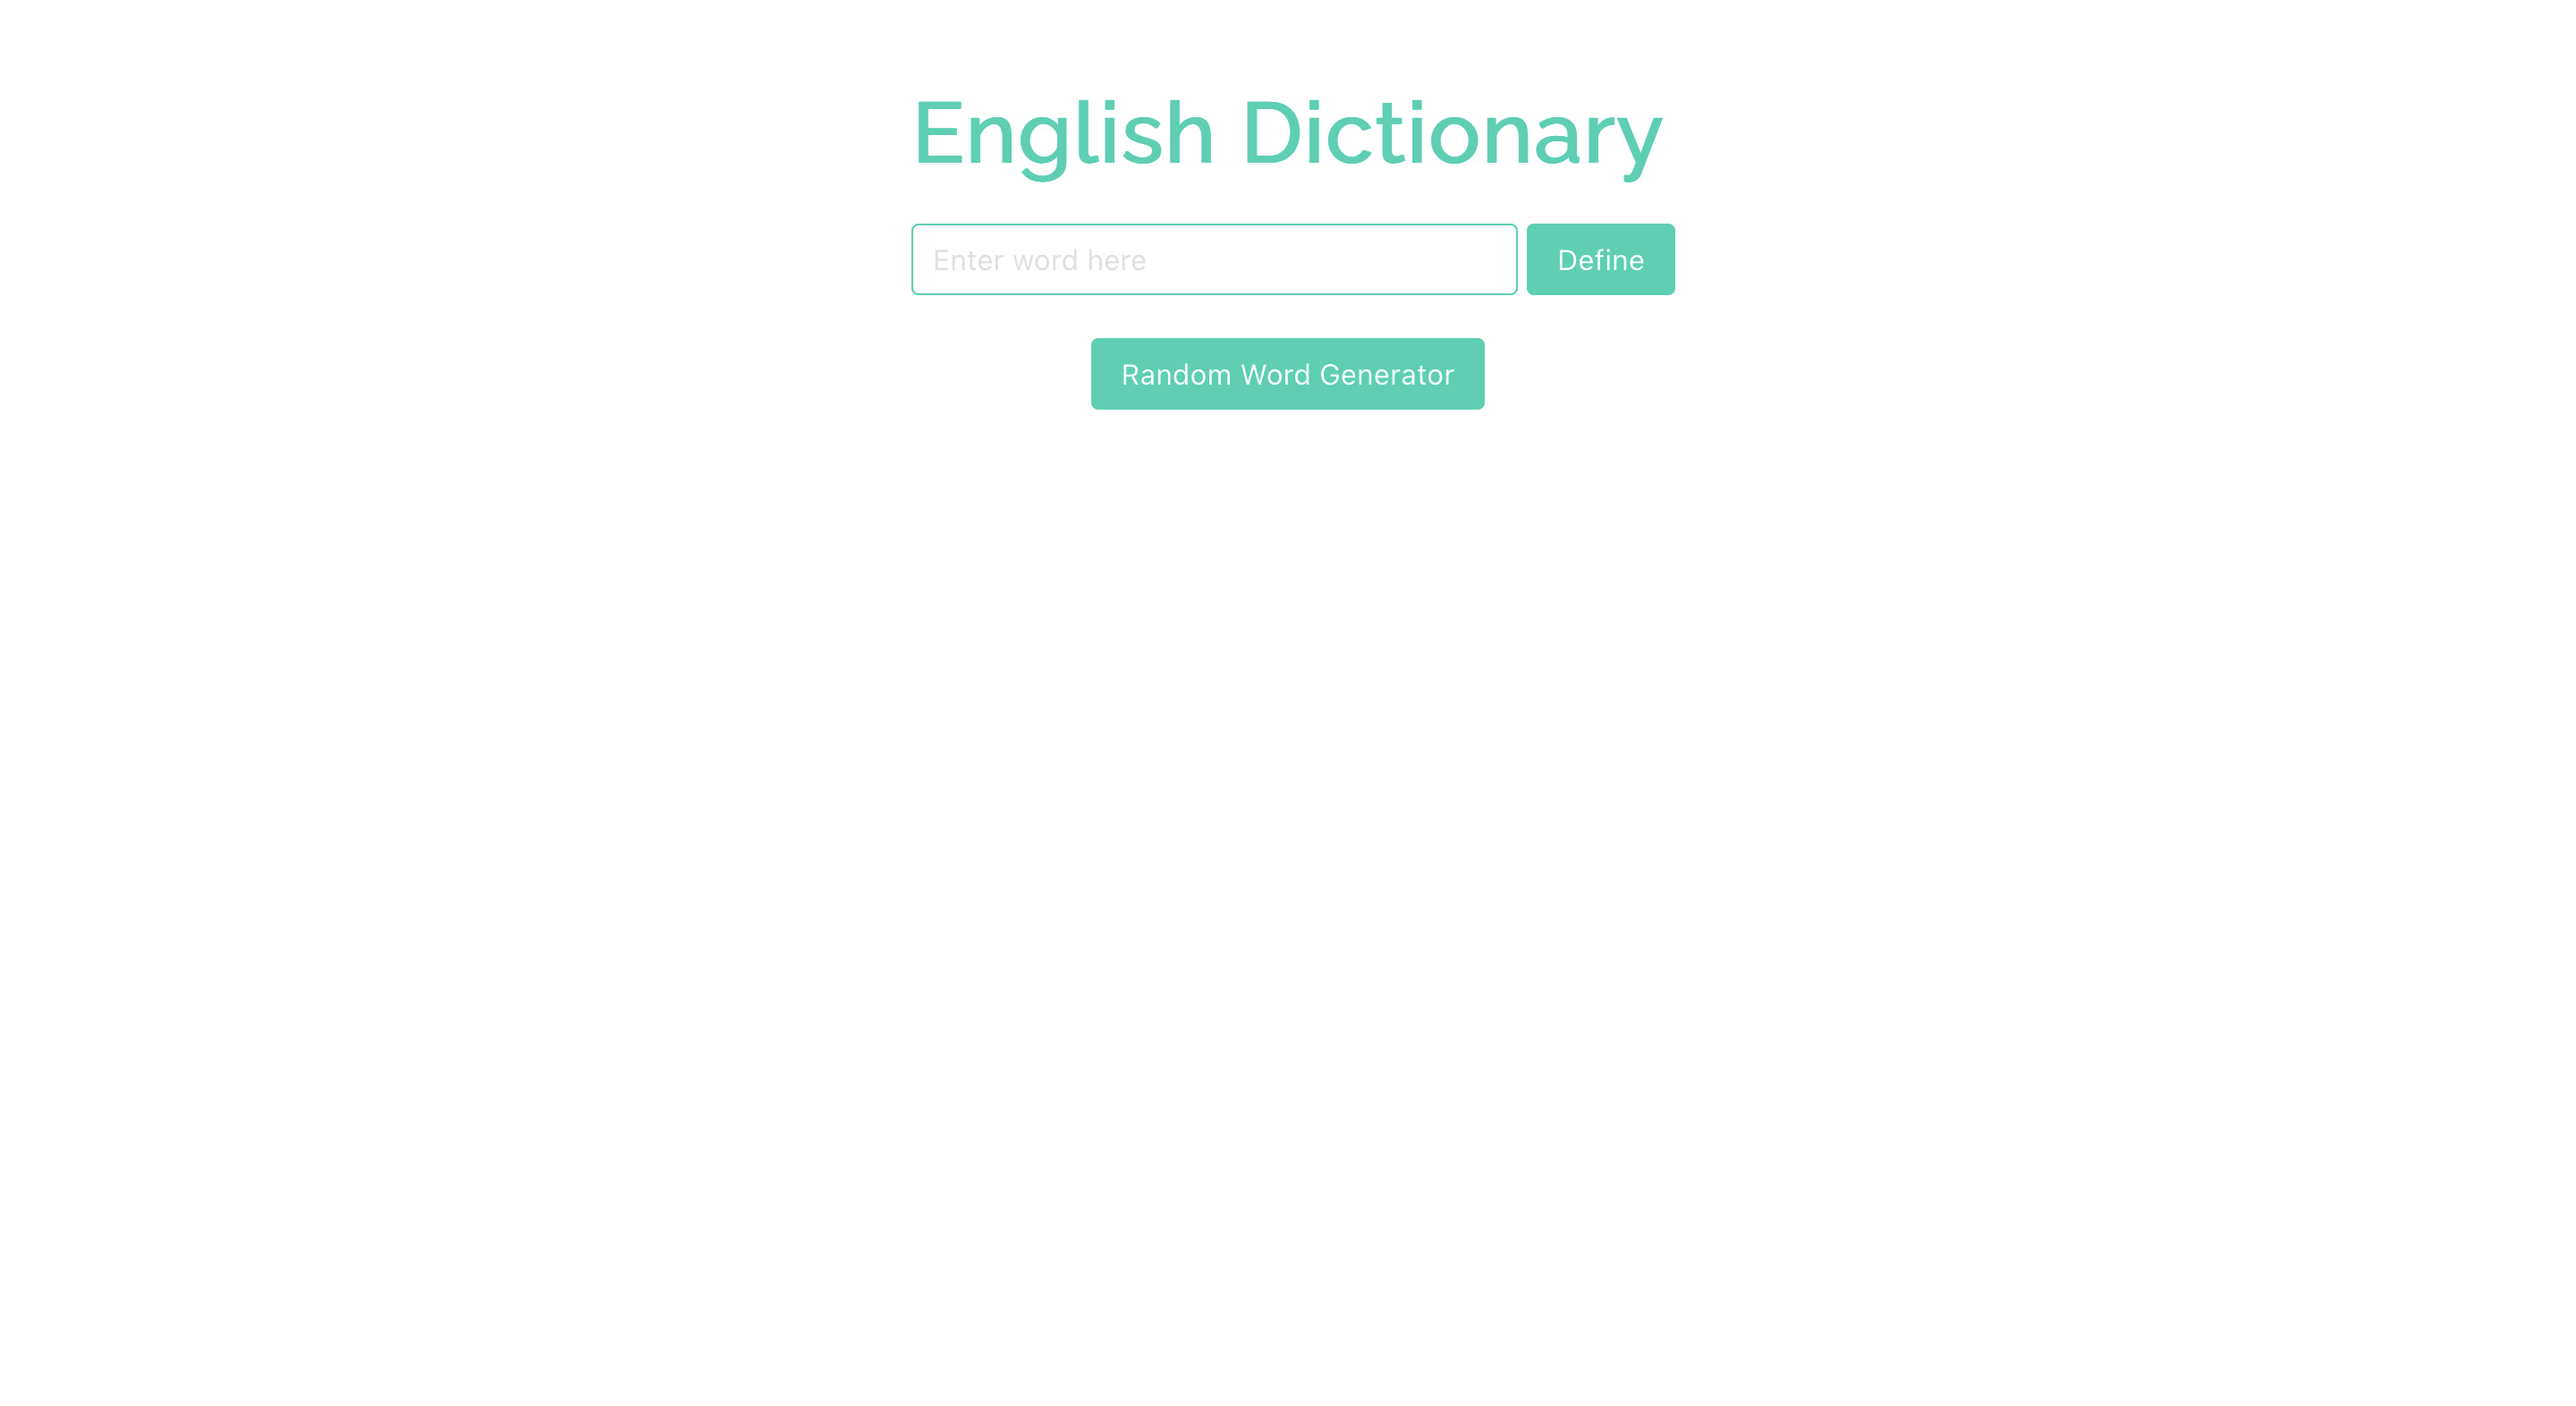
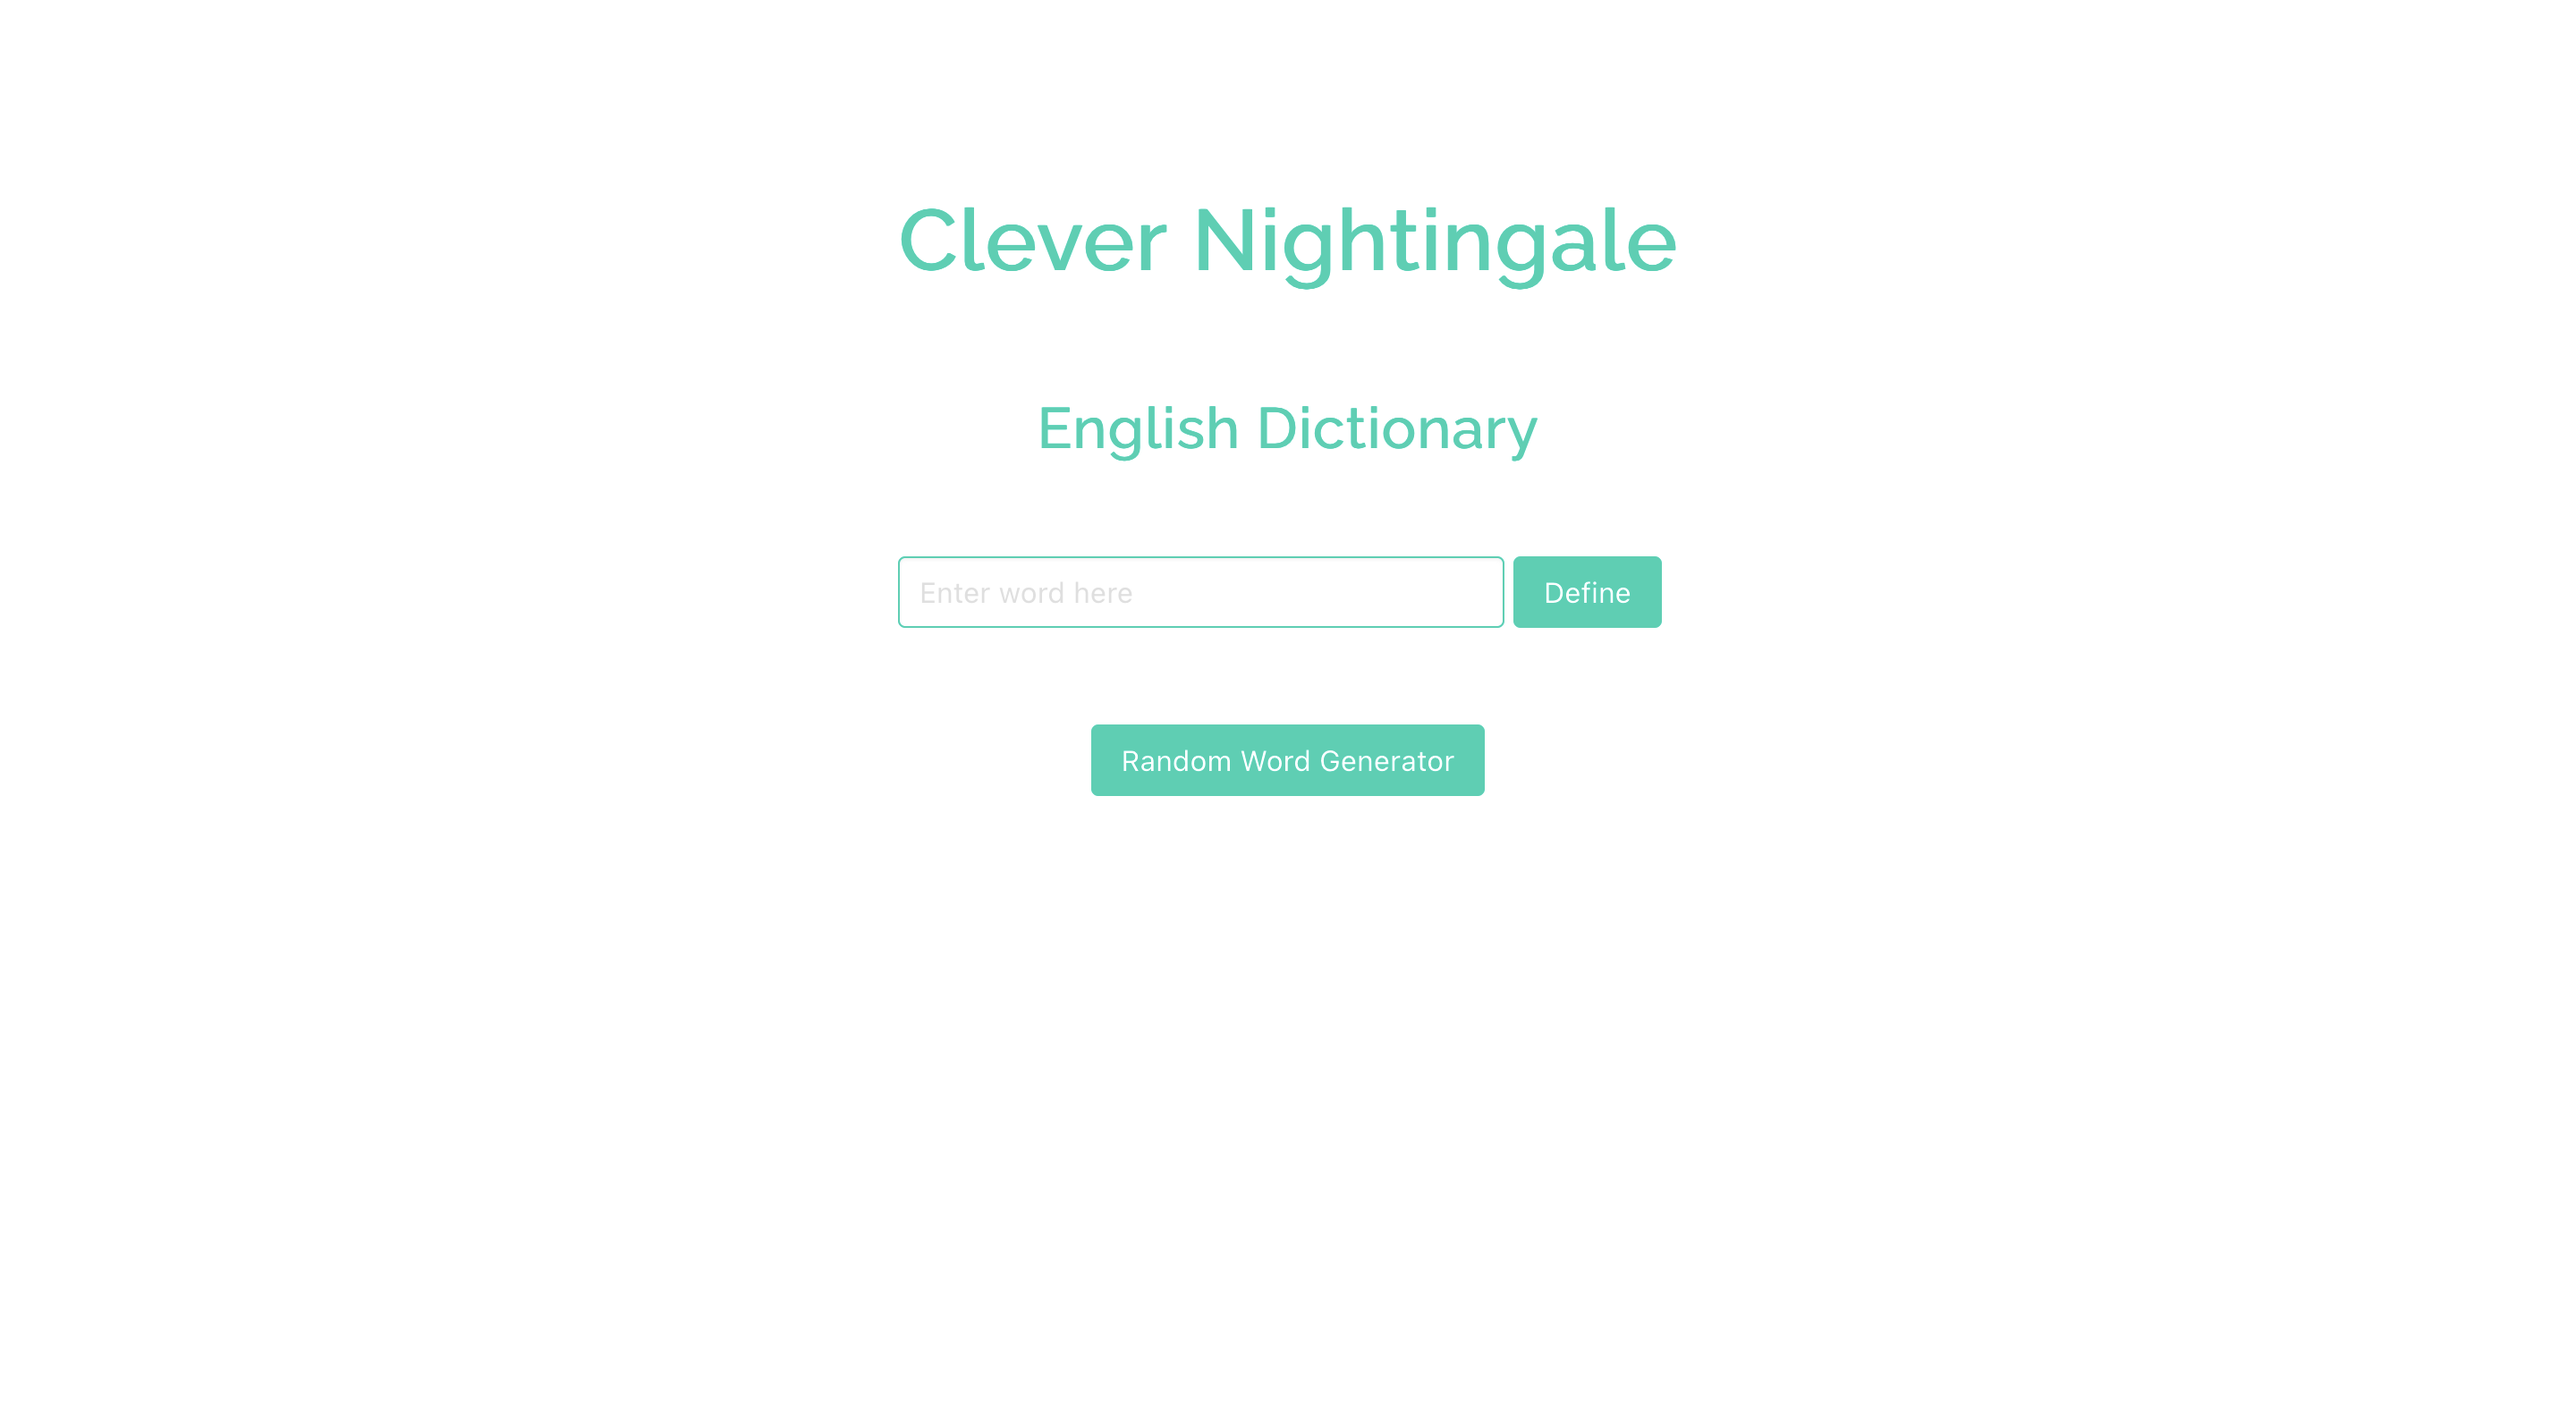
changed english dictionary gallery image

diff --git a/src/common/Gallery.js b/src/common/Gallery.js
@@ -35,8 +35,8 @@ function Gallery() {
               <div className="hover-overlay">
                 <div className="hover-content">
                   <a className="btn btn-light btn-sm">
-                    <b className="hover-title">English Dictionary</b>
-                    <p className="hover-text">Online english dictionary. A front end only app built with HTML, CSS (Bulma), JavaScript, React and a 3rd party API.</p>
+                    <b className="hover-title">Clever Nightingale</b>
+                    <p className="hover-text">An online english dictionary. A front end only app built with HTML, CSS (Bulma), JavaScript, React and a 3rd party API.</p>
                     <a href="https://github.com/EsinYilmazbilek/SEI-project-two" target="blank" className="btn btn-xs">On GitHub</a>
                     <a href="https://clever-nightingale.netlify.app/" target="blank" className="btn btn-xs">On Web</a>
                   </a>
